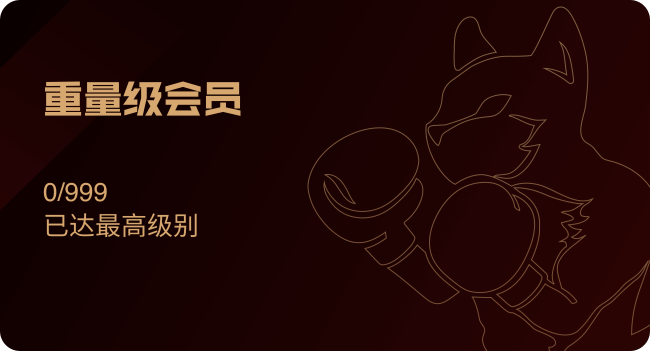
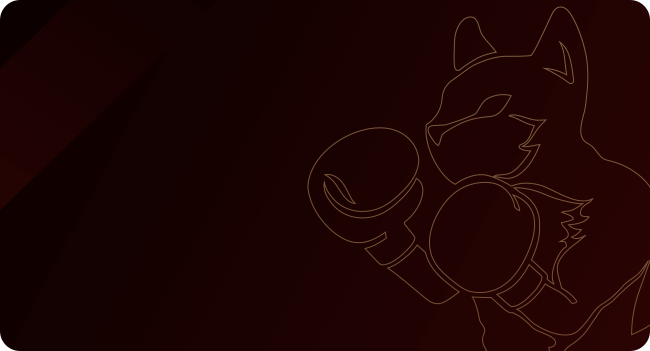
个人中心优化

Changed region(s): [[0.0615, 0.2279, 0.3692, 0.3419], [0.0615, 0.5983, 0.3077, 0.6838], [0.0615, 0.5128, 0.1846, 0.5698]]

diff --git a/src/pages/mine/index.jsx b/src/pages/mine/index.jsx
@@ -28,6 +28,7 @@ export default class storeList extends Component {
 
   state={
     levelIndex:0,
+    clevelIndex:0,
     couponCount:0
   }
 
@@ -67,18 +68,57 @@ export default class storeList extends Component {
               <Swiper className='scrollview'  circular previous-margin="30rpx" next-margin="30rpx" onChange={this.swipeChange.bind(this)}>
                 <SwiperItem className='item'>
                   <Image src={require('../../assets/images/card1.png')} className='imgscroll' />
+                  <View className="Con">
+                  <View className="tips">{clevelIndex==0?'当前等级':''}</View>
+                  <View className="levelName">{level[levelIndex].name}会员</View>
+                  <View className="txt">0/999</View>
+                  <View className="txt">还需999经验值</View>
+                  <View className="txt">可升级{level[levelIndex+1].name}</View>
+                  </View>
                 </SwiperItem>
                 <SwiperItem className='item'>
                   <Image src={require('../../assets/images/card2.png')} className='imgscroll' />
+                  <View className="Con">
+                  <View className="tips">{clevelIndex==1?'当前等级':''}</View>
+                  <View className="levelName">{level[levelIndex].name}会员</View>
+                  <View className="txt">0/999</View>
+                  <View className="txt">还需999经验值</View>
+                  <View className="txt">可升级{level[levelIndex+1].name}</View>
+                  </View>
                 </SwiperItem>
                 <SwiperItem className='item'>
                   <Image src={require('../../assets/images/card3.png')} className='imgscroll' />
+                  <View className="Con">
+                  <View className="tips">{clevelIndex==2?'当前等级':''}</View>
+                  <View className="levelName">{level[levelIndex].name}会员</View>
+                  <View className="txt">0/999</View>
+                  <View className="txt">还需999经验值</View>
+                  <View className="txt">可升级{level[levelIndex+1].name}</View>
+                  </View>
                 </SwiperItem>
                 <SwiperItem className='item'>
                   <Image src={require('../../assets/images/card4.png')} className='imgscroll' />
+                  <View className="Con">
+                  <View className="tips">{clevelIndex==3?'当前等级':''}</View>
+                  <View className="levelName">{level[levelIndex].name}会员</View>
+                  <View className="txt">0/999</View>
+                  <View className="txt">还需999经验值</View>
+                  <View className="txt">可升级{level[levelIndex+1].name}</View>
+                  </View>
                 </SwiperItem>
                 <SwiperItem className='item'>
                   <Image src={require('../../assets/images/card5.png')} className='imgscroll' />
+                  <View className="Con">
+                  <View className="tips">{clevelIndex==4?'当前等级':''}</View>
+                  <View className="levelName">{level[levelIndex].name}会员</View>
+                  <View className="txt">0/999</View>
+                  { clevelIndex==4?<View className="txt">已达最高级别</View>
+                    :<View>
+                      <View className="txt">还需999经验值</View>
+                      <View className="txt">可升级{level[levelIndex+1].name}</View>
+                    </View>
+                  }                  
+                  </View>
                 </SwiperItem>
               </Swiper>
               </View>

diff --git a/src/pages/index/index.jsx b/src/pages/index/index.jsx
@@ -83,12 +83,12 @@ export default class Index extends Component {
           this.setState({beerNum:res.data.currentNumber});
       }).catch(err=>{
           console.log(err);
-          Taro.showModal({  content:err.msg,
-                            showCancel:false,
-                            success:()=>{
-                                this.getXlAct()
-                            }
-                         })
+          // Taro.showModal({  content:err.msg,
+          //                   showCancel:false,
+          //                   success:()=>{
+          //                       this.getXlAct()
+          //                   }
+          //                })
       });
   }
 

diff --git a/src/pages/mine/index.scss b/src/pages/mine/index.scss
@@ -4,6 +4,11 @@ page{
 background: #F4F5F6;
 }
 .card{ padding:30px 0; }
+.card .item{  position:relative; }
+.card .item .Con{ position:absolute; left:0; top:0; font-size:30px; color:#fff; width:100%; height:100%; padding:50px 43px; box-sizing:border-box;  }
+.card .item .Con .tips{ height:50px; line-height:50px; font-size:22px; color:rgba(255,255,255,0.7);}
+.card .item .Con .levelName{ font-size:40px; margin-bottom:46px; }
+.card .item .Con .txt{ font-size:26px; font-family:'Helvetica'; color:rgba(255,255,255,0.7);  }
 .userMy{
     width: 100%;
     height: auto;
